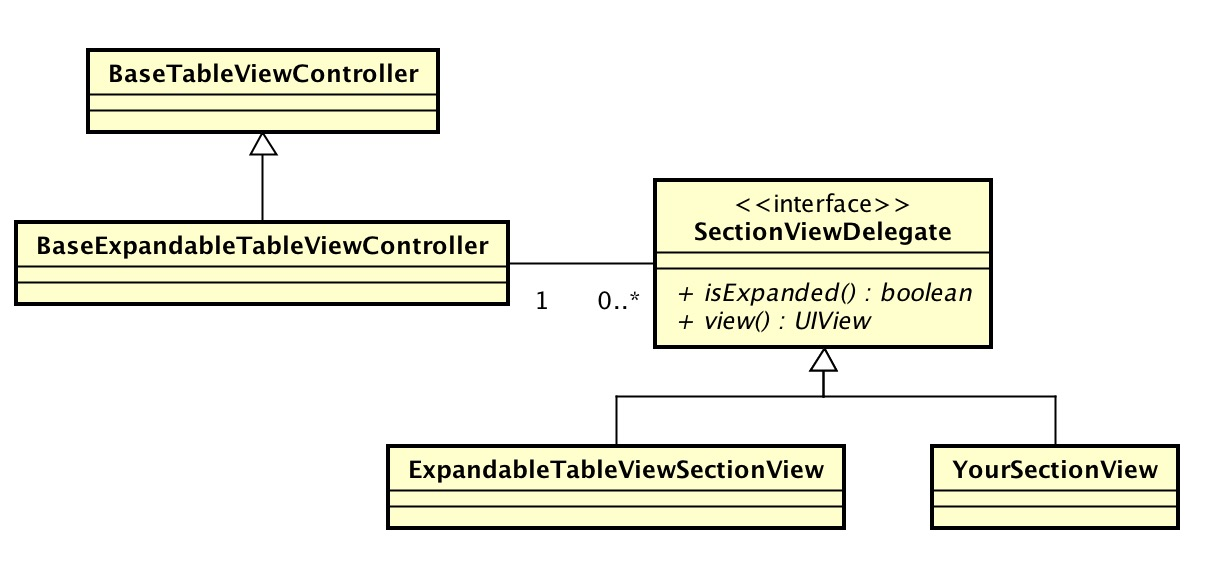
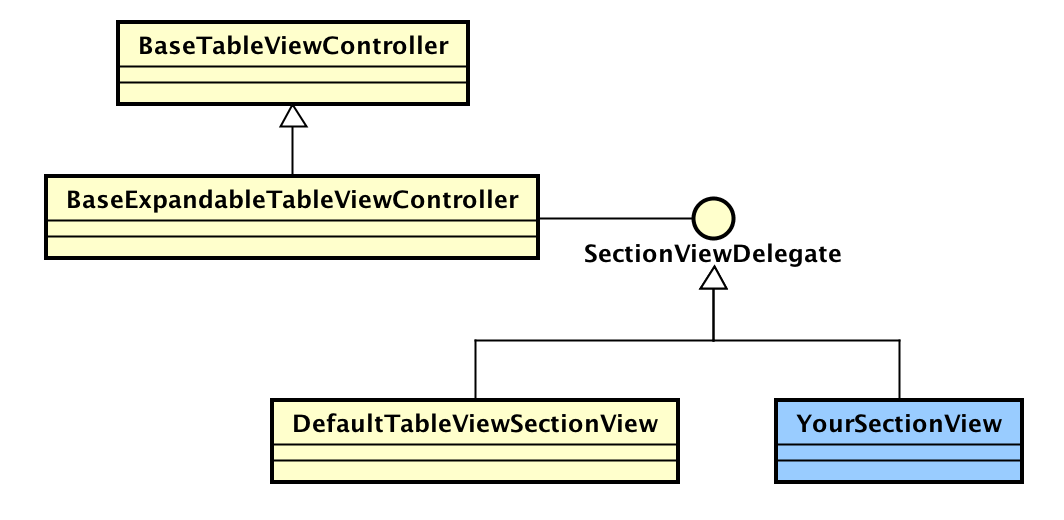
Rename files. ExpandableTableViewSectionView.* -> DefaultTableViewSectionView.*

Changed region(s): [[0.0, 0.3077, 0.9615, 0.9538], [0.062, 0.0308, 0.4652, 0.2769]]

diff --git a/JMExpandableTableView/JMExpandableTableView/Controller/ViewController.m b/JMExpandableTableView/JMExpandableTableView/Controller/ViewController.m
@@ -7,7 +7,7 @@
 //
 
 #import "ViewController.h"
-#import "ExpandableTableViewSectionView.h"
+#import "DefaultTableViewSectionView.h"
 
 @interface ViewController ()
 
@@ -53,7 +53,7 @@
 
 -(id<SectionViewDelegate>)expTableView:(UITableView *)tableView sectionViewInSection:(NSInteger)section {
     CGRect frame = CGRectMake(0, 0, [UIScreen mainScreen].bounds.size.width, 50);
-    ExpandableTableViewSectionView *tmpView = [[ExpandableTableViewSectionView alloc] initWithFrame:frame];
+    DefaultTableViewSectionView *tmpView = [[DefaultTableViewSectionView alloc] initWithFrame:frame];
     tmpView.tableView = tableView;
     tmpView.title = [NSString stringWithFormat:@"Section->%ld", section];
     tmpView.expandImage = [UIImage imageNamed:@"arrow_down"];

diff --git a/JMExpandableTableView/JMExpandableTableView/Core/DefaultTableViewSectionView.m b/JMExpandableTableView/JMExpandableTableView/Core/DefaultTableViewSectionView.m
@@ -1,16 +1,16 @@
 //
-//  ExpandableTableViewSectionView.m
+//  DefaultTableViewSectionView.m
 //  JMExpandableTableView
 //
 //  Created by jonathan ma on 3/11/2016.
 //  Copyright © 2016 jonathan ma. All rights reserved.
 //
 
-#import "ExpandableTableViewSectionView.h"
+#import "DefaultTableViewSectionView.h"
 
 static const CGFloat HEADER_FONT_SIZE = 18;
 
-@interface ExpandableTableViewSectionView ()
+@interface DefaultTableViewSectionView ()
 
 @property (nonatomic, assign) BOOL isSetup;
 @property (nonatomic, assign) BOOL isExpanded;
@@ -19,7 +19,7 @@ static const CGFloat HEADER_FONT_SIZE = 18;
 
 @end
 
-@implementation ExpandableTableViewSectionView
+@implementation DefaultTableViewSectionView
 
 -(void)setup {
     if (_isSetup) {
